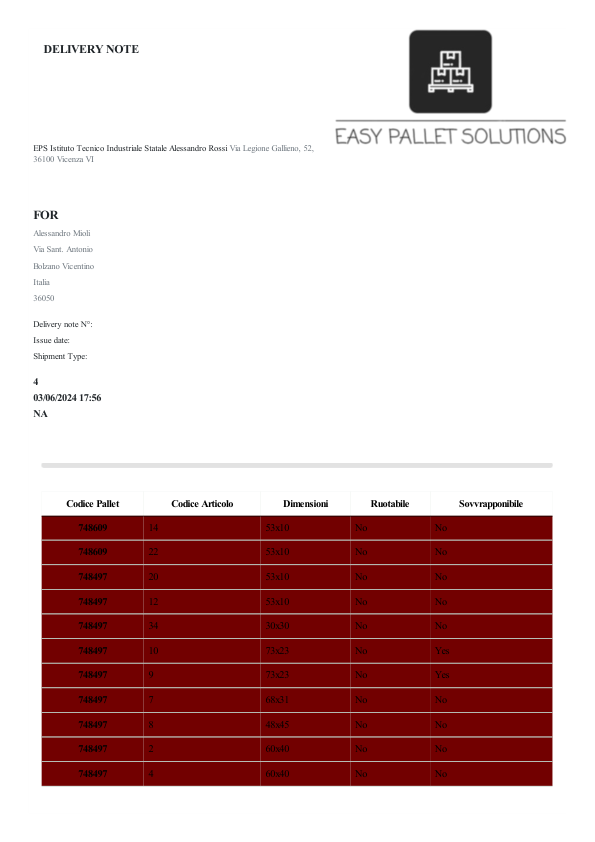
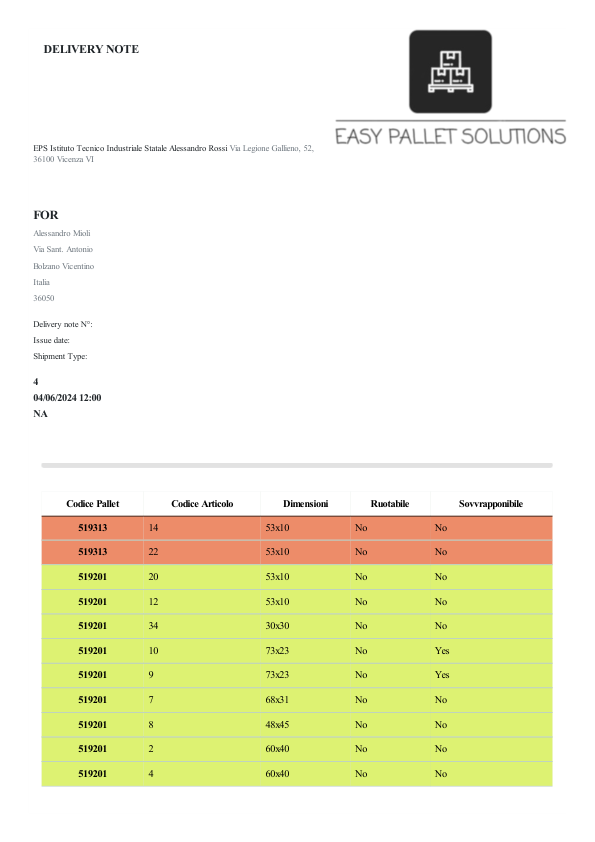
Aggiunta funzione randColor che crea per ogni codice pallet un colore univoco randomico.
Major Fix: I colori sono ora funzionanti

Changed region(s): [[0.0605, 0.5867, 0.9378, 0.9572]]

diff --git a/stable/template_bolla.html b/stable/template_bolla.html
@@ -65,218 +65,218 @@
         <tbody id="tabella_dinamica">
             <tr id="colonna_dinamica">
             </tr id="end_of_colonna_dinamica">
-<tr id="colonna_dinamica" style="background-color:#720000;">
-<th scope="row" style="font-family:'Serif'">748609</th>
+<tr id="colonna_dinamica" style="background-color:#ED8C69;">
+<th scope="row" style="font-family:'Serif'">519313</th>
 <td style="font-family:'Serif'">14</td>
 <td style="font-family:'Serif'">53x10</td>
 <td style="font-family:'Serif'">No</td>
 <td style="font-family:'Serif'">No</td>
 </tr id="end_of_colonna_dinamica">
-<tr id="colonna_dinamica" style="background-color:#720000;">
-<th scope="row" style="font-family:'Serif'">748609</th>
+<tr id="colonna_dinamica" style="background-color:#ED8C69;">
+<th scope="row" style="font-family:'Serif'">519313</th>
 <td style="font-family:'Serif'">22</td>
 <td style="font-family:'Serif'">53x10</td>
 <td style="font-family:'Serif'">No</td>
 <td style="font-family:'Serif'">No</td>
 </tr id="end_of_colonna_dinamica">
-<tr id="colonna_dinamica" style="background-color:#720000;">
-<th scope="row" style="font-family:'Serif'">748497</th>
+<tr id="colonna_dinamica" style="background-color:#DDF272;">
+<th scope="row" style="font-family:'Serif'">519201</th>
 <td style="font-family:'Serif'">20</td>
 <td style="font-family:'Serif'">53x10</td>
 <td style="font-family:'Serif'">No</td>
 <td style="font-family:'Serif'">No</td>
 </tr id="end_of_colonna_dinamica">
-<tr id="colonna_dinamica" style="background-color:#720000;">
-<th scope="row" style="font-family:'Serif'">748497</th>
+<tr id="colonna_dinamica" style="background-color:#DDF272;">
+<th scope="row" style="font-family:'Serif'">519201</th>
 <td style="font-family:'Serif'">12</td>
 <td style="font-family:'Serif'">53x10</td>
 <td style="font-family:'Serif'">No</td>
 <td style="font-family:'Serif'">No</td>
 </tr id="end_of_colonna_dinamica">
-<tr id="colonna_dinamica" style="background-color:#720000;">
-<th scope="row" style="font-family:'Serif'">748497</th>
+<tr id="colonna_dinamica" style="background-color:#DDF272;">
+<th scope="row" style="font-family:'Serif'">519201</th>
 <td style="font-family:'Serif'">34</td>
 <td style="font-family:'Serif'">30x30</td>
 <td style="font-family:'Serif'">No</td>
 <td style="font-family:'Serif'">No</td>
 </tr id="end_of_colonna_dinamica">
-<tr id="colonna_dinamica" style="background-color:#720000;">
-<th scope="row" style="font-family:'Serif'">748497</th>
+<tr id="colonna_dinamica" style="background-color:#DDF272;">
+<th scope="row" style="font-family:'Serif'">519201</th>
 <td style="font-family:'Serif'">10</td>
 <td style="font-family:'Serif'">73x23</td>
 <td style="font-family:'Serif'">No</td>
 <td style="font-family:'Serif'">Yes</td>
 </tr id="end_of_colonna_dinamica">
-<tr id="colonna_dinamica" style="background-color:#720000;">
-<th scope="row" style="font-family:'Serif'">748497</th>
+<tr id="colonna_dinamica" style="background-color:#DDF272;">
+<th scope="row" style="font-family:'Serif'">519201</th>
 <td style="font-family:'Serif'">9</td>
 <td style="font-family:'Serif'">73x23</td>
 <td style="font-family:'Serif'">No</td>
 <td style="font-family:'Serif'">Yes</td>
 </tr id="end_of_colonna_dinamica">
-<tr id="colonna_dinamica" style="background-color:#720000;">
-<th scope="row" style="font-family:'Serif'">748497</th>
+<tr id="colonna_dinamica" style="background-color:#DDF272;">
+<th scope="row" style="font-family:'Serif'">519201</th>
 <td style="font-family:'Serif'">7</td>
 <td style="font-family:'Serif'">68x31</td>
 <td style="font-family:'Serif'">No</td>
 <td style="font-family:'Serif'">No</td>
 </tr id="end_of_colonna_dinamica">
-<tr id="colonna_dinamica" style="background-color:#720000;">
-<th scope="row" style="font-family:'Serif'">748497</th>
+<tr id="colonna_dinamica" style="background-color:#DDF272;">
+<th scope="row" style="font-family:'Serif'">519201</th>
 <td style="font-family:'Serif'">8</td>
 <td style="font-family:'Serif'">48x45</td>
 <td style="font-family:'Serif'">No</td>
 <td style="font-family:'Serif'">No</td>
 </tr id="end_of_colonna_dinamica">
-<tr id="colonna_dinamica" style="background-color:#720000;">
-<th scope="row" style="font-family:'Serif'">748497</th>
+<tr id="colonna_dinamica" style="background-color:#DDF272;">
+<th scope="row" style="font-family:'Serif'">519201</th>
 <td style="font-family:'Serif'">2</td>
 <td style="font-family:'Serif'">60x40</td>
 <td style="font-family:'Serif'">No</td>
 <td style="font-family:'Serif'">No</td>
 </tr id="end_of_colonna_dinamica">
-<tr id="colonna_dinamica" style="background-color:#720000;">
-<th scope="row" style="font-family:'Serif'">748497</th>
+<tr id="colonna_dinamica" style="background-color:#DDF272;">
+<th scope="row" style="font-family:'Serif'">519201</th>
 <td style="font-family:'Serif'">4</td>
 <td style="font-family:'Serif'">60x40</td>
 <td style="font-family:'Serif'">No</td>
 <td style="font-family:'Serif'">No</td>
 </tr id="end_of_colonna_dinamica">
-<tr id="colonna_dinamica" style="background-color:#720000;">
-<th scope="row" style="font-family:'Serif'">747041</th>
+<tr id="colonna_dinamica" style="background-color:#CBA2BA;">
+<th scope="row" style="font-family:'Serif'">517745</th>
 <td style="font-family:'Serif'">27</td>
 <td style="font-family:'Serif'">56x44</td>
 <td style="font-family:'Serif'">No</td>
 <td style="font-family:'Serif'">No</td>
 </tr id="end_of_colonna_dinamica">
-<tr id="colonna_dinamica" style="background-color:#720000;">
-<th scope="row" style="font-family:'Serif'">747041</th>
+<tr id="colonna_dinamica" style="background-color:#CBA2BA;">
+<th scope="row" style="font-family:'Serif'">517745</th>
 <td style="font-family:'Serif'">19</td>
 <td style="font-family:'Serif'">56x44</td>
 <td style="font-family:'Serif'">No</td>
 <td style="font-family:'Serif'">No</td>
 </tr id="end_of_colonna_dinamica">
-<tr id="colonna_dinamica" style="background-color:#720000;">
-<th scope="row" style="font-family:'Serif'">747041</th>
+<tr id="colonna_dinamica" style="background-color:#CBA2BA;">
+<th scope="row" style="font-family:'Serif'">517745</th>
 <td style="font-family:'Serif'">16</td>
 <td style="font-family:'Serif'">56x53</td>
 <td style="font-family:'Serif'">No</td>
 <td style="font-family:'Serif'">No</td>
 </tr id="end_of_colonna_dinamica">
-<tr id="colonna_dinamica" style="background-color:#720000;">
-<th scope="row" style="font-family:'Serif'">747041</th>
+<tr id="colonna_dinamica" style="background-color:#CBA2BA;">
+<th scope="row" style="font-family:'Serif'">517745</th>
 <td style="font-family:'Serif'">24</td>
 <td style="font-family:'Serif'">56x53</td>
 <td style="font-family:'Serif'">No</td>
 <td style="font-family:'Serif'">No</td>
 </tr id="end_of_colonna_dinamica">
-<tr id="colonna_dinamica" style="background-color:#720000;">
-<th scope="row" style="font-family:'Serif'">747041</th>
+<tr id="colonna_dinamica" style="background-color:#CBA2BA;">
+<th scope="row" style="font-family:'Serif'">517745</th>
 <td style="font-family:'Serif'">23</td>
 <td style="font-family:'Serif'">56x53</td>
 <td style="font-family:'Serif'">No</td>
 <td style="font-family:'Serif'">No</td>
 </tr id="end_of_colonna_dinamica">
-<tr id="colonna_dinamica" style="background-color:#8e0000;">
-<th scope="row" style="font-family:'Serif'">926817</th>
+<tr id="colonna_dinamica" style="background-color:#93925D;">
+<th scope="row" style="font-family:'Serif'">517169</th>
 <td style="font-family:'Serif'">15</td>
 <td style="font-family:'Serif'">56x53</td>
 <td style="font-family:'Serif'">No</td>
 <td style="font-family:'Serif'">No</td>
 </tr id="end_of_colonna_dinamica">
-<tr id="colonna_dinamica" style="background-color:#8e0000;">
-<th scope="row" style="font-family:'Serif'">926817</th>
+<tr id="colonna_dinamica" style="background-color:#93925D;">
+<th scope="row" style="font-family:'Serif'">517169</th>
 <td style="font-family:'Serif'">29</td>
 <td style="font-family:'Serif'">81x53</td>
 <td style="font-family:'Serif'">No</td>
 <td style="font-family:'Serif'">No</td>
 </tr id="end_of_colonna_dinamica">
-<tr id="colonna_dinamica" style="background-color:#8e0000;">
-<th scope="row" style="font-family:'Serif'">926817</th>
+<tr id="colonna_dinamica" style="background-color:#93925D;">
+<th scope="row" style="font-family:'Serif'">517169</th>
 <td style="font-family:'Serif'">28</td>
 <td style="font-family:'Serif'">81x53</td>
 <td style="font-family:'Serif'">No</td>
 <td style="font-family:'Serif'">No</td>
 </tr id="end_of_colonna_dinamica">
-<tr id="colonna_dinamica" style="background-color:#8e0000;">
-<th scope="row" style="font-family:'Serif'">926513</th>
+<tr id="colonna_dinamica" style="background-color:#91D11C;">
+<th scope="row" style="font-family:'Serif'">696033</th>
 <td style="font-family:'Serif'">21</td>
 <td style="font-family:'Serif'">81x53</td>
 <td style="font-family:'Serif'">No</td>
 <td style="font-family:'Serif'">No</td>
 </tr id="end_of_colonna_dinamica">
-<tr id="colonna_dinamica" style="background-color:#8e0000;">
-<th scope="row" style="font-family:'Serif'">926513</th>
+<tr id="colonna_dinamica" style="background-color:#91D11C;">
+<th scope="row" style="font-family:'Serif'">696033</th>
 <td style="font-family:'Serif'">13</td>
 <td style="font-family:'Serif'">81x53</td>
 <td style="font-family:'Serif'">No</td>
 <td style="font-family:'Serif'">No</td>
 </tr id="end_of_colonna_dinamica">
-<tr id="colonna_dinamica" style="background-color:#8e0000;">
-<th scope="row" style="font-family:'Serif'">926513</th>
+<tr id="colonna_dinamica" style="background-color:#91D11C;">
+<th scope="row" style="font-family:'Serif'">696033</th>
 <td style="font-family:'Serif'">3</td>
 <td style="font-family:'Serif'">72x61</td>
 <td style="font-family:'Serif'">Yes</td>
 <td style="font-family:'Serif'">No</td>
 </tr id="end_of_colonna_dinamica">
-<tr id="colonna_dinamica" style="background-color:#8e0000;">
-<th scope="row" style="font-family:'Serif'">925233</th>
+<tr id="colonna_dinamica" style="background-color:#47AA6D;">
+<th scope="row" style="font-family:'Serif'">697057</th>
 <td style="font-family:'Serif'">1</td>
 <td style="font-family:'Serif'">72x61</td>
 <td style="font-family:'Serif'">Yes</td>
 <td style="font-family:'Serif'">No</td>
 </tr id="end_of_colonna_dinamica">
-<tr id="colonna_dinamica" style="background-color:#8e0000;">
-<th scope="row" style="font-family:'Serif'">925233</th>
+<tr id="colonna_dinamica" style="background-color:#47AA6D;">
+<th scope="row" style="font-family:'Serif'">697057</th>
 <td style="font-family:'Serif'">30</td>
 <td style="font-family:'Serif'">153x48</td>
 <td style="font-family:'Serif'">No</td>
 <td style="font-family:'Serif'">No</td>
 </tr id="end_of_colonna_dinamica">
-<tr id="colonna_dinamica" style="background-color:#8e0000;">
-<th scope="row" style="font-family:'Serif'">925121</th>
+<tr id="colonna_dinamica" style="background-color:#74D2B2;">
+<th scope="row" style="font-family:'Serif'">695665</th>
 <td style="font-family:'Serif'">17</td>
 <td style="font-family:'Serif'">187x48</td>
 <td style="font-family:'Serif'">No</td>
 <td style="font-family:'Serif'">No</td>
 </tr id="end_of_colonna_dinamica">
-<tr id="colonna_dinamica" style="background-color:#8e0000;">
-<th scope="row" style="font-family:'Serif'">925009</th>
+<tr id="colonna_dinamica" style="background-color:#442E36;">
+<th scope="row" style="font-family:'Serif'">695553</th>
 <td style="font-family:'Serif'">25</td>
 <td style="font-family:'Serif'">188x48</td>
 <td style="font-family:'Serif'">No</td>
 <td style="font-family:'Serif'">No</td>
 </tr id="end_of_colonna_dinamica">
-<tr id="colonna_dinamica" style="background-color:#8e0000;">
-<th scope="row" style="font-family:'Serif'">924785</th>
+<tr id="colonna_dinamica" style="background-color:#F6E10F;">
+<th scope="row" style="font-family:'Serif'">695329</th>
 <td style="font-family:'Serif'">31</td>
 <td style="font-family:'Serif'">159x70</td>
 <td style="font-family:'Serif'">No</td>
 <td style="font-family:'Serif'">No</td>
 </tr id="end_of_colonna_dinamica">
-<tr id="colonna_dinamica" style="background-color:#8e0000;">
-<th scope="row" style="font-family:'Serif'">924897</th>
+<tr id="colonna_dinamica" style="background-color:#9A27F1;">
+<th scope="row" style="font-family:'Serif'">695441</th>
 <td style="font-family:'Serif'">18</td>
 <td style="font-family:'Serif'">195x67</td>
 <td style="font-family:'Serif'">No</td>
 <td style="font-family:'Serif'">No</td>
 </tr id="end_of_colonna_dinamica">
-<tr id="colonna_dinamica" style="background-color:#8d0000;">
-<th scope="row" style="font-family:'Serif'">920417</th>
+<tr id="colonna_dinamica" style="background-color:#4185EB;">
+<th scope="row" style="font-family:'Serif'">844849</th>
 <td style="font-family:'Serif'">26</td>
 <td style="font-family:'Serif'">195x67</td>
 <td style="font-family:'Serif'">No</td>
 <td style="font-family:'Serif'">No</td>
 </tr id="end_of_colonna_dinamica">
-<tr id="colonna_dinamica" style="background-color:#8d0000;">
-<th scope="row" style="font-family:'Serif'">920529</th>
+<tr id="colonna_dinamica" style="background-color:#824A61;">
+<th scope="row" style="font-family:'Serif'">571905</th>
 <td style="font-family:'Serif'">33</td>
 <td style="font-family:'Serif'">98x73</td>
 <td style="font-family:'Serif'">No</td>
 <td style="font-family:'Serif'">No</td>
 </tr id="end_of_colonna_dinamica">
-<tr id="colonna_dinamica" style="background-color:#390000;">
-<th scope="row" style="font-family:'Serif'">74609</th>
+<tr id="colonna_dinamica" style="background-color:#C94035;">
+<th scope="row" style="font-family:'Serif'">686481</th>
 <td style="font-family:'Serif'">32</td>
 <td style="font-family:'Serif'">90x58</td>
 <td style="font-family:'Serif'">No</td>

diff --git a/stable/EasyPalletSolution.py b/stable/EasyPalletSolution.py
@@ -1,4 +1,5 @@
 import sys
+import random
 from PyQt5.QtWidgets import QApplication, QWidget, QPushButton, QVBoxLayout, QFileDialog, QDialog, QFormLayout, QLabel, QComboBox, QLineEdit, QHBoxLayout, QGroupBox, QHeaderView, QTableWidgetItem,QTableWidget
 from PyQt5.QtGui import QPixmap
 from PyQt5 import QtWidgets
@@ -60,12 +61,15 @@ def json_updater(json_path,Lenght,Width,Height,MXWeight,Shipment_type):
         with open(json_path,'w') as j:
             json.dump(file_data, j, indent = 4)
 
+def randColor():
+    color = ["#"+''.join([random.choice('0123456789ABCDEF') for j in range(6)])]
+    return(color[0])
 
 def create_pdf(mainfolder,data):
     '''funzione che crea il pdf partendo da un file html'''
     global built_pallets
     built_pallets={}
-    colori = {}
+    colored_codes = {}
     temp_pallet = {}
     firstRound = True
     chiavi = []
@@ -98,20 +102,17 @@ def create_pdf(mainfolder,data):
                             continue
                     built_pallets[idx] = my_data[indice]
                     built_pallets[idx]['CODICE_PALLET'] = int(pallet['Pallet'])
-                    built_pallets[idx]['COLORE_GRUPPO'] = built_pallets[idx]['CODICE_PALLET'] *12
-                    while built_pallets[idx]['COLORE_GRUPPO'] >= 255:
-                        built_pallets[idx]['COLORE_GRUPPO'] = int(built_pallets[idx]['COLORE_GRUPPO'] /5)
+                    
                     try:
-                        if built_pallets[idx]['COLORE_GRUPPO'] == colori[idx]:
-                            while built_pallets[idx]['COLORE_GRUPPO'] < 255:
-                                built_pallets[idx]['COLORE_GRUPPO'] = built_pallets[idx]['COLORE_GRUPPO'] /4
-                                colori[idx] = (built_pallets[idx]['COLORE_GRUPPO'])
+                        if colored_codes[built_pallets[idx]['CODICE_PALLET']]:
+                            built_pallets[idx]['COLORE_GRUPPO'] = colored_codes[built_pallets[idx]['CODICE_PALLET']]
                         else:
-                            colori[idx] = (built_pallets[idx]['COLORE_GRUPPO'])
+                            colored_codes[built_pallets[idx]['CODICE_PALLET']] = randColor()
+                            built_pallets[idx]['COLORE_GRUPPO'] = colored_codes[built_pallets[idx]['CODICE_PALLET']]
                     except KeyError:
-                        colori[idx] = (built_pallets[idx]['COLORE_GRUPPO'])
-                    built_pallets[idx]['COLORE_GRUPPO'] = hex(built_pallets[idx]['COLORE_GRUPPO'])
-                
+                        colored_codes[built_pallets[idx]['CODICE_PALLET']] = randColor()
+                        built_pallets[idx]['COLORE_GRUPPO'] = colored_codes[built_pallets[idx]['CODICE_PALLET']]
+                        
                 except Exception as err:
                     if firstRound is True:
                         for chiave in my_data:
@@ -120,6 +121,7 @@ def create_pdf(mainfolder,data):
                             else:
                                 chiavi.append(int(chiave))
                     firstRound = False
+                    
                     built_pallets[idx] = my_data[str(chiavi[t])]
                     built_pallets[idx]['CODICE_PALLET'] = int(pallet['Pallet'])
                     built_pallets[idx]['COLORE_GRUPPO'] = built_pallets[idx]['CODICE_PALLET'] *12
